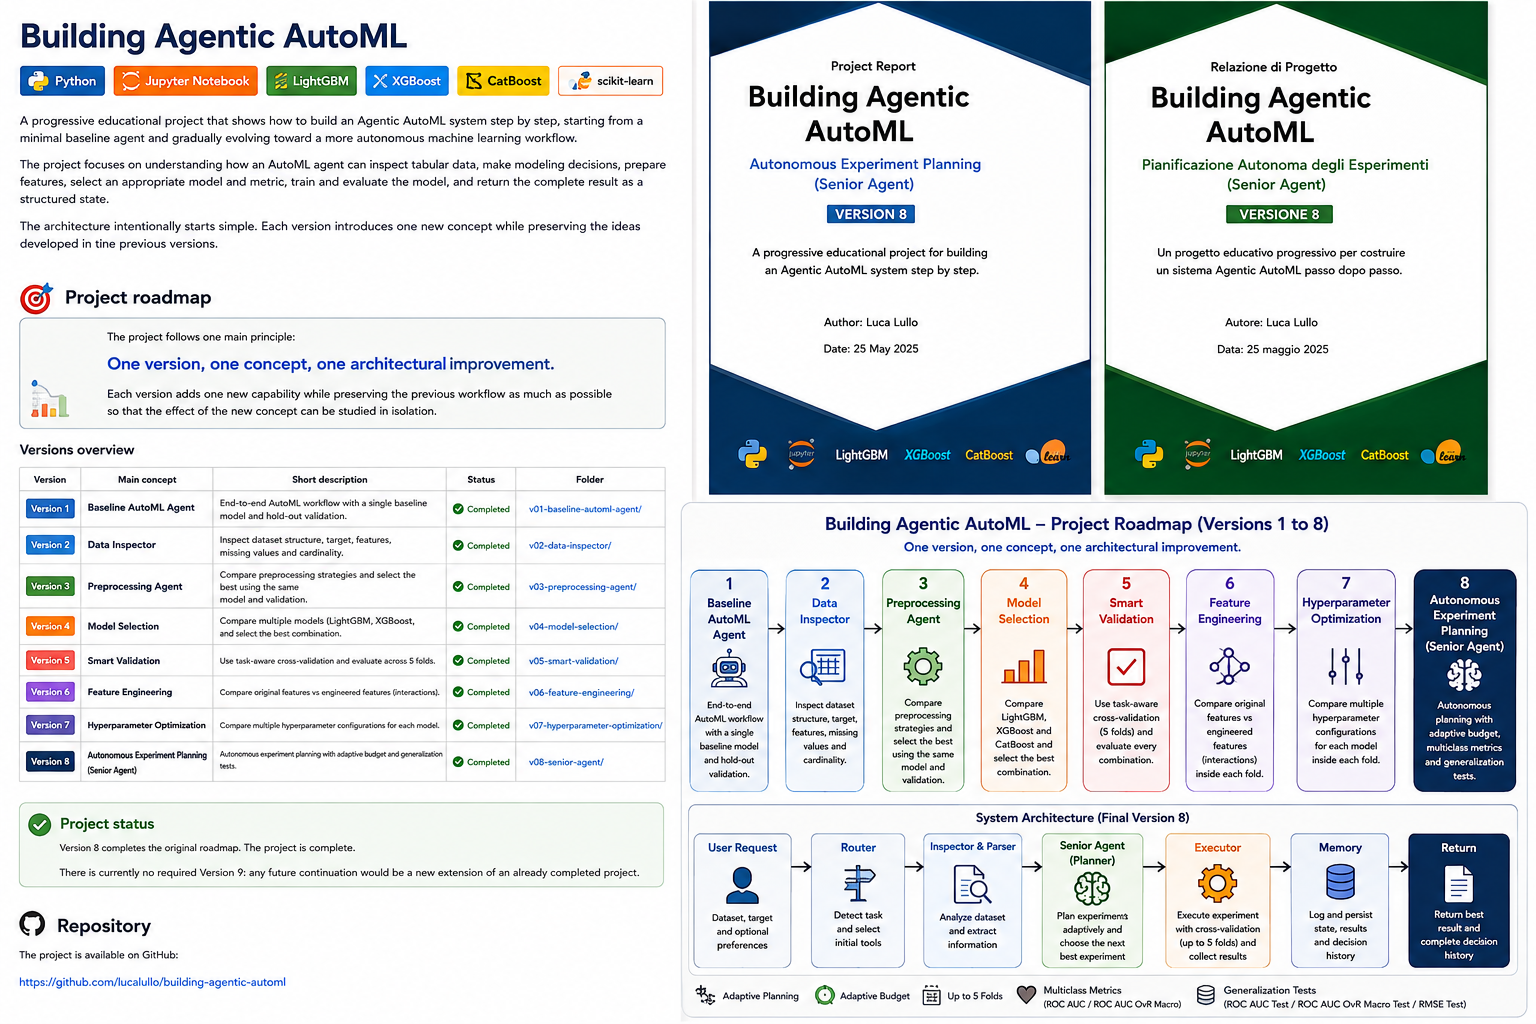
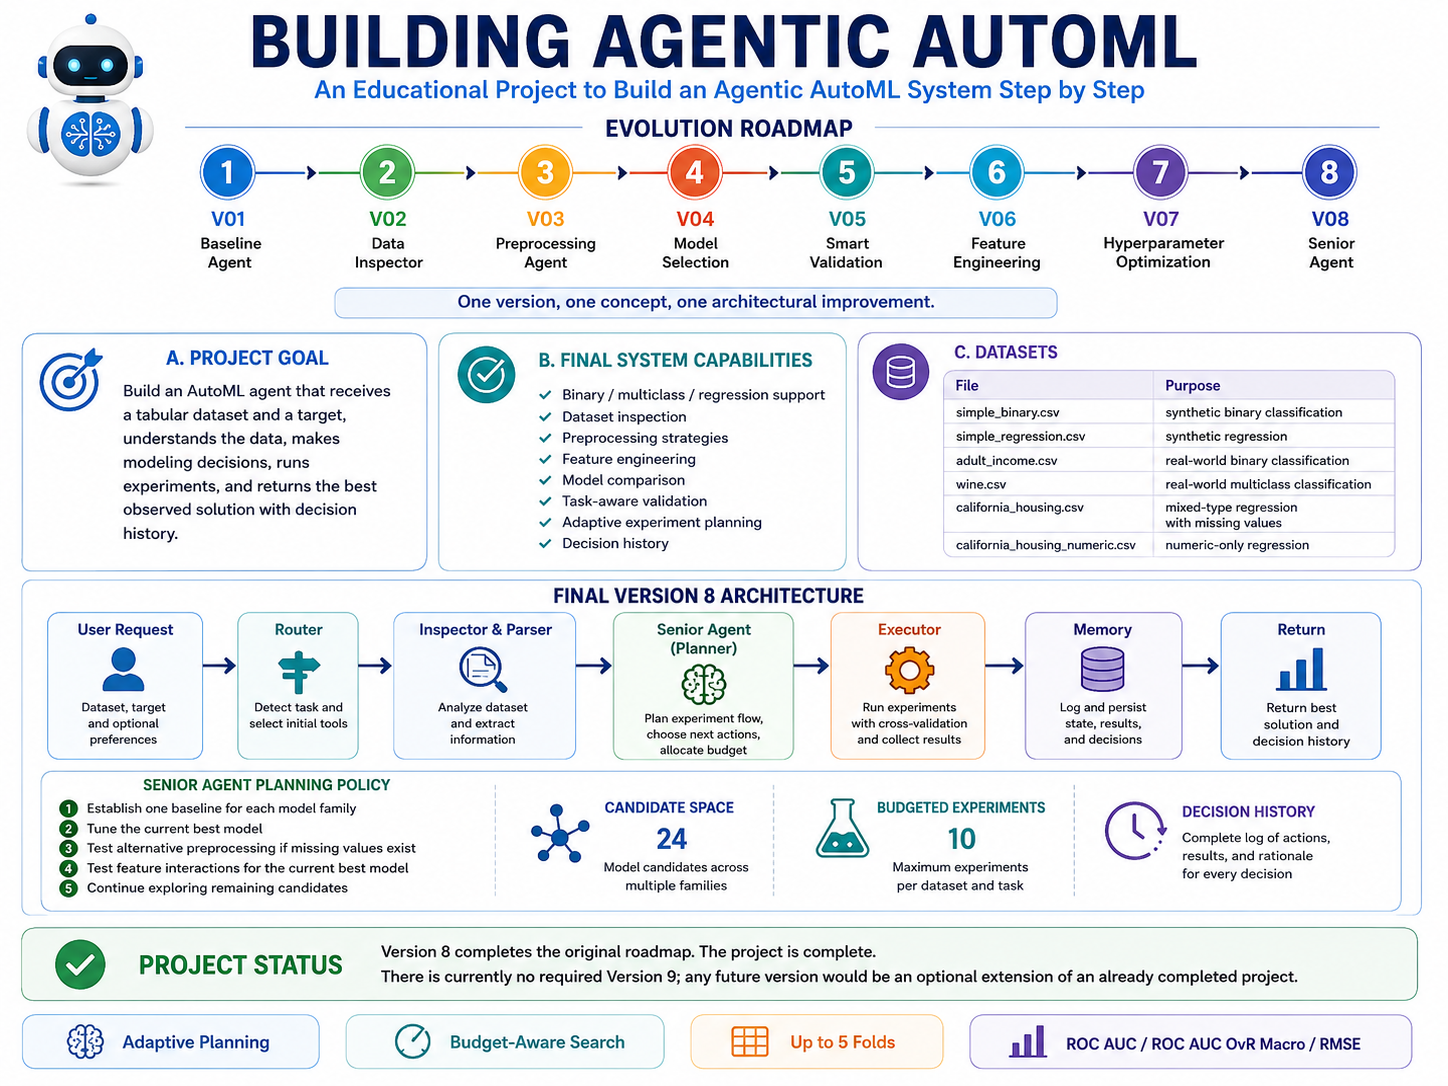
Update

diff --git a/README.md b/README.md
@@ -103,6 +103,8 @@ Each version preserves the previous workflow as much as possible so that the eff
 
 Version 8 completes the original project roadmap.
 
+![Building Agentic AutoML project roadmap infographic](infographic.png)
+
 ## Repository
 
 The project is available on GitHub:
